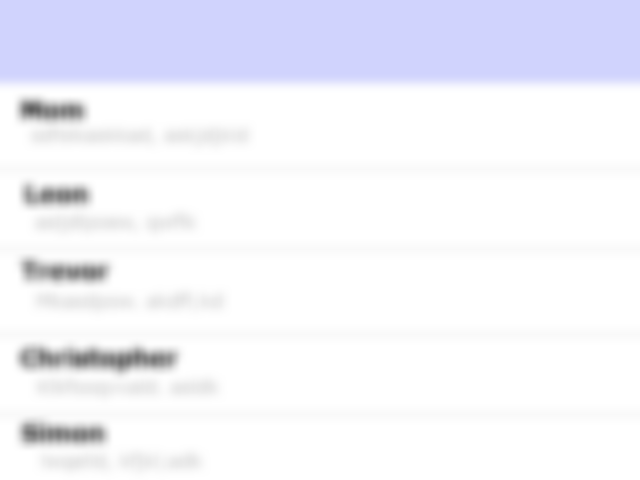
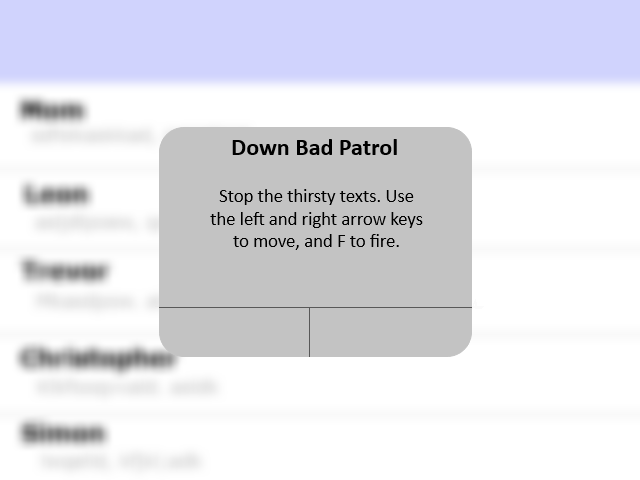
implemented menus

Changed region(s): [[0.25, 0.25, 0.75, 0.75]]

diff --git a/src/scenes/Menu.js b/src/scenes/Menu.js
@@ -21,11 +21,10 @@ class Menu extends Phaser.Scene {
 
         // menu text configuration
         let menuConfig = {
-            fontFamily: 'Courier',
-            fontSize: '28px',
-            backgroundColor: '#F3B141',
-            color: '#843605',
-            align: 'right',
+            fontFamily: 'Verdana',
+            fontSize: '18px',
+            color: '#3f48cc',
+            align: 'center',
             padding: {
               top: 5,
               bottom: 5,
@@ -33,38 +32,37 @@ class Menu extends Phaser.Scene {
             fixedWidth: 0
         }
 
-        // show menu text
-        this.add.text(game.config.width/2, game.config.height/2 - borderUISize - borderPadding, 'ROCKET PATROL', menuConfig).setOrigin(0.5);
-        this.add.text(game.config.width/2, game.config.height/2, 'Use ←→ to move & (F) to fire', menuConfig).setOrigin(0.5);
-        menuConfig.backgroundColor = '#00FF00';
-        menuConfig.color = '#000';
-        this.add.text(game.config.width/2, game.config.height/2 + borderUISize + borderPadding, 'Press ← for Novice or → for Expert', menuConfig).setOrigin(0.5);
-        
-        // define keys
-        keyLEFT = this.input.keyboard.addKey(Phaser.Input.Keyboard.KeyCodes.LEFT);
-        keyRIGHT = this.input.keyboard.addKey(Phaser.Input.Keyboard.KeyCodes.RIGHT);
+        // display difficulty buttons
+        this.easyButton = this.add.text(game.config.width/2 - 80, game.config.height/2 + 90, 'New Recruit', menuConfig).setOrigin(0.5);
+        this.add.existing(this.easyButton);
+        this.easyButton.setInteractive();
+        this.easyButton.on('pointerup', () => {
+            // easy mode
+            game.settings = {
+              spaceshipSpeed: 3,
+              gameTimer: 60000    
+            }
+            this.sound.play('sfx_select');
+            this.scene.start('play');
+         });
+
+
+        this.hardButton = this.add.text(game.config.width/2 + 65, game.config.height/2 + 90, 'Veteran', menuConfig).setOrigin(0.5);
+        this.add.existing(this.hardButton);
+        this.hardButton.setInteractive();
+        this.hardButton.on('pointerup', () => {
+            // hard mode
+            game.settings = {
+              spaceshipSpeed: 4,
+              gameTimer: 45000    
+            }
+            this.sound.play('sfx_select');
+            this.scene.start('play');
+        });
 
     }
 
     update() {
-        if (Phaser.Input.Keyboard.JustDown(keyLEFT)) {
-          // easy mode
-          game.settings = {
-            spaceshipSpeed: 3,
-            gameTimer: 60000    
-          }
-          this.sound.play('sfx_select');
-          this.scene.start('play');    
-        }
-        if (Phaser.Input.Keyboard.JustDown(keyRIGHT)) {
-          // hard mode
-          game.settings = {
-            spaceshipSpeed: 4,
-            gameTimer: 45000    
-          }
-          this.sound.play('sfx_select');
-          this.scene.start('play');    
-        }
-      }
+    }
     
 }

diff --git a/src/scenes/Play.js b/src/scenes/Play.js
@@ -13,6 +13,7 @@ class Play extends Phaser.Scene {
         this.load.image('clown', 'assets/clown.png');
         this.load.image('wyd', 'assets/wyd.png');
         this.load.image('up', 'assets/up.png');
+        this.load.image('gameover', 'assets/gameover.png');
         this.load.image('heyy', 'assets/heyy.png');
         this.load.image('background', 'assets/background.png');
         this.load.spritesheet('explosion', 'assets/explosion.png', {frameWidth: 64, frameHeight: 32, startFrame: 0, endFrame: 3});
@@ -73,6 +74,19 @@ class Play extends Phaser.Scene {
         }
 
         this.scoreLabel = this.add.text(borderUISize + borderPadding - 50, borderUISize + borderPadding*2 - 55, "Score", labelConfig);
+
+        //config for game over menu buttons
+        let menuConfig = {
+            fontFamily: 'Verdana',
+            fontSize: '18px',
+            color: '#3f48cc',
+            align: 'center',
+            padding: {
+              top: 5,
+              bottom: 5,
+            },
+            fixedWidth: 0
+        }
         
         //GAME OVER flag
         this.gameOver = false;
@@ -80,8 +94,25 @@ class Play extends Phaser.Scene {
         //play clock
         scoreConfig.fixedWidth = 0;
         this.clock = this.time.delayedCall(game.settings.gameTimer, () => {
-            this.add.text(game.config.width/2, game.config.height/2, 'GAME OVER', scoreConfig).setOrigin(0.5);
-            this.add.text(game.config.width/2, game.config.height/2 + 64, 'Press (R) to Restart or ← for Menu', scoreConfig).setOrigin(0.5);
+            //Game over image
+            this.add.tileSprite(game.config.width/2, game.config.height/2, 313, 230, 'gameover').setOrigin(0.5,0.5);
+
+            // Game over restart button
+            this.restartButton = this.add.text(game.config.width/2 - 80, game.config.height/2 + 90, 'Restart', menuConfig).setOrigin(0.5);
+            this.add.existing(this.restartButton);
+            this.restartButton.setInteractive();
+            this.restartButton.on('pointerup', () => {
+                this.scene.start('play');
+            });
+
+            // Game over menu button
+            this.menuButton = this.add.text(game.config.width/2 + 75, game.config.height/2 + 90, 'Title', menuConfig).setOrigin(0.5);
+            this.add.existing(this.menuButton);
+            this.menuButton.setInteractive();
+            this.menuButton.on('pointerup', () => {
+                this.scene.start('menu');
+            });
+
             this.gameOver = true;
         }, null, this);
 

diff --git a/src/prefabs/Rocket.js b/src/prefabs/Rocket.js
@@ -8,7 +8,7 @@ class Rocket extends Phaser.GameObjects.Sprite {
     this.moveSpeed = 8;
 
     // add rocket sfx
-    this.sfxRocket = scene.sound.add('sfx_rocket');
+    this.sfxRocket = scene.sound.add('sfx_rocket', {volume: 0.3});
   }
 
   update() {
